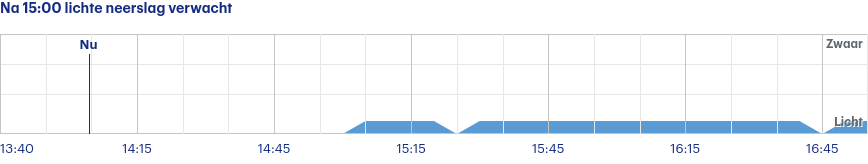
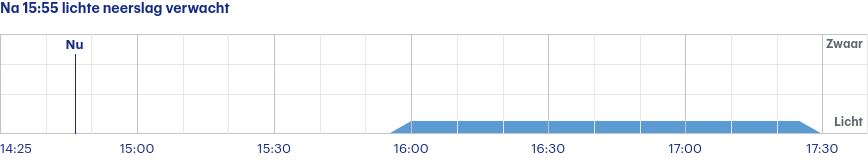
Latest scraping buienradar: Thu Aug 31 12:42:13 UTC 2023

diff --git a/scrapes/buienradar/buienradar-jette-3-uur.md b/scrapes/buienradar/buienradar-jette-3-uur.md
@@ -1,4 +1,4 @@
-Na 15:00 lichte neerslag verwacht
+Na 15:55 lichte neerslag verwacht
 
 ![](buienradar-jette-3-uur.png)
 
